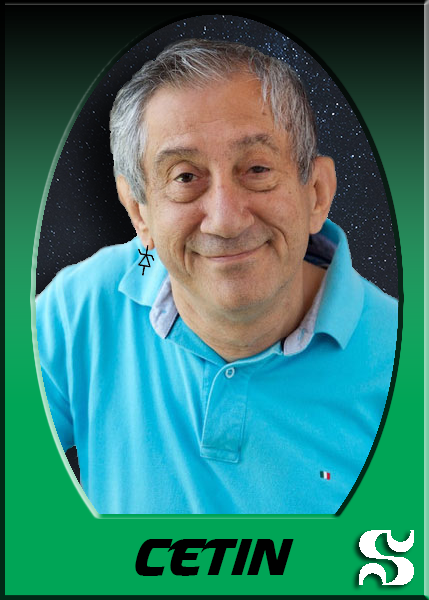
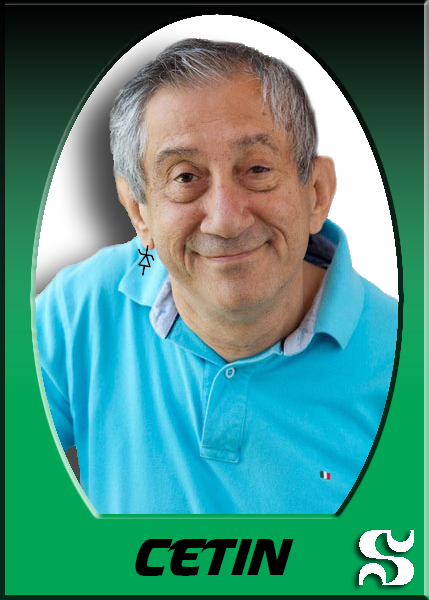
All players display

Changed region(s): [[0.0606, 0.0, 0.9394, 0.51], [0.1515, 0.75, 0.2121, 0.81]]

diff --git a/Qt/GuessWho/CharacterGrid.cpp b/Qt/GuessWho/CharacterGrid.cpp
@@ -1,4 +1,6 @@
 #include "CharacterGrid.h"
+#include <QDebug>
+#include <string>
 
 
 
@@ -7,10 +9,11 @@ CharacterGrid::CharacterGrid(QWidget *parent, int height, int windowWidth):QWidg
 	characterGrid = new QGridLayout(this);
 	gridHeight = height;
 
-	QPixmap logo("./Photos/claudette.png");
 	for (int i = 0; i < 20; i++) {
 		images.push_back(new QLabel);
+		QPixmap logo("./Photos/Characters/" + QString::number(i) + ".png");
 		images.at(i)->setPixmap(logo.scaled(300, gridHeight / 4, Qt::KeepAspectRatio));
+		images.at(i)->setStyleSheet("background: transparent;");
 	}
 
 	for (int i = 0; i < 5; i++) {
